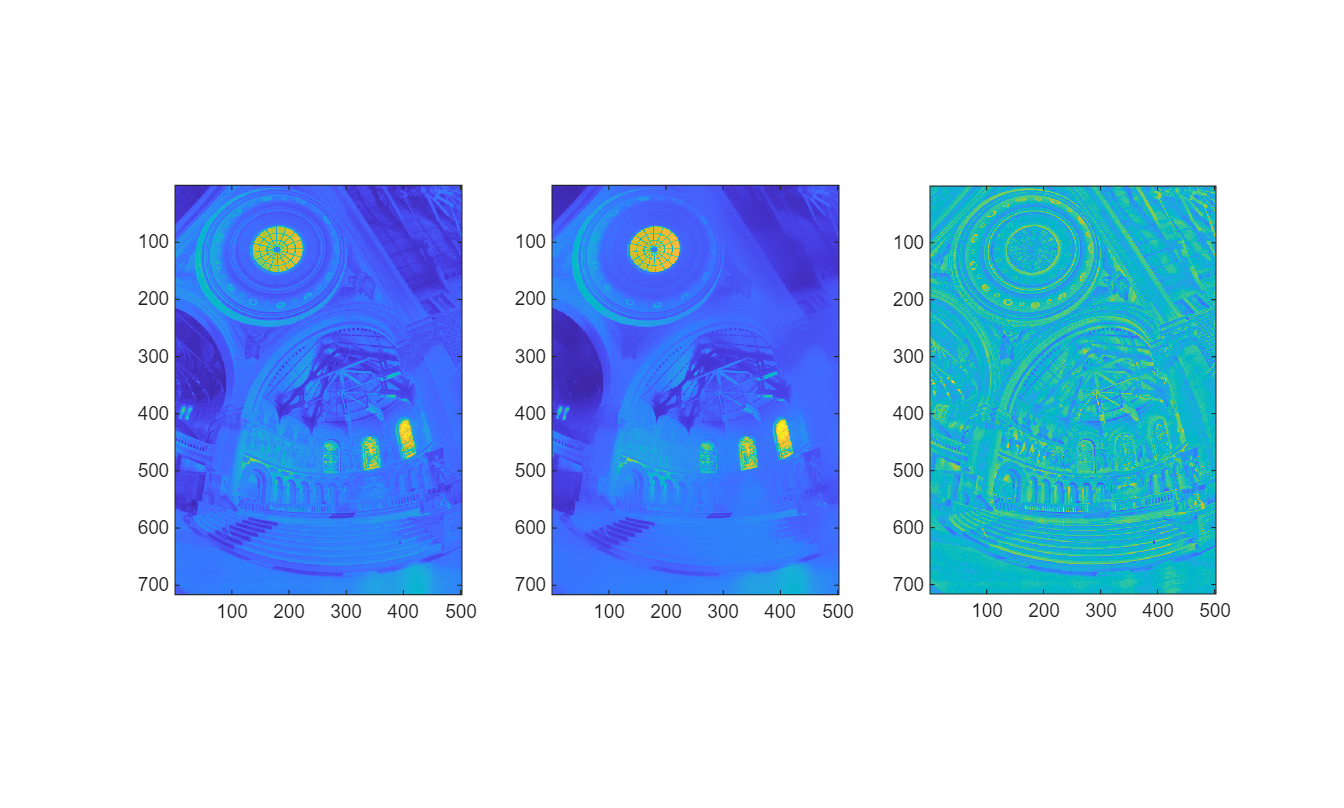
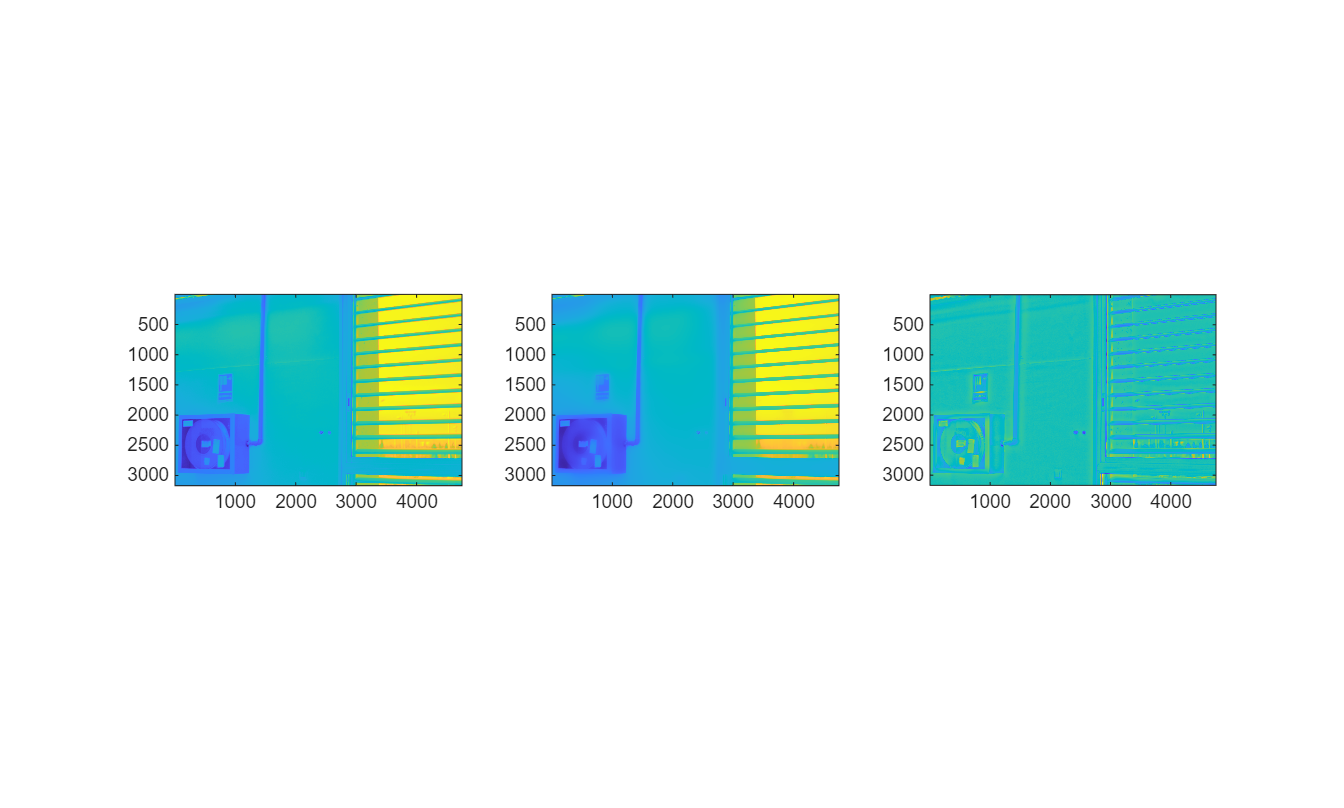
new images

diff --git a/03_assignment/Code/Part2/part2.m b/03_assignment/Code/Part2/part2.m
@@ -3,7 +3,8 @@
 hdr = hdrread('../Part1/Results/ours_hdr_image.hdr');
 
 % tone-map
-keys=[0.02, 0.07, 0.10];
+% keys=[0.02, 0.07, 0.10];
+keys=[0.25];
 burns=[0.1, 0.5, 1];
 
 fignum = 3;
@@ -22,19 +23,19 @@ for key=keys
 
 end
 
-for burn=burns
-
-    % imwrite( ...
-    %     reinhard_tonemapping(hdr, keys(2), burn, fignum+1), ...
-    %     "Results/tonemapped_reinhard_burn_" + burn + ".png" ...
-    %     )
-
-    imwrite( ...
-        reinhard_tonemapping(hdr, keys(2), burn, fignum+1), ...
-        "Results/ours_tonemapped_reinhard_burn_" + burn + ".png" ...
-        )
-
-end
+% for burn=burns
+% 
+%     % imwrite( ...
+%     %     reinhard_tonemapping(hdr, keys(2), burn, fignum+1), ...
+%     %     "Results/tonemapped_reinhard_burn_" + burn + ".png" ...
+%     %     )
+% 
+%     imwrite( ...
+%         reinhard_tonemapping(hdr, keys(2), burn, fignum+1), ...
+%         "Results/ours_tonemapped_reinhard_burn_" + burn + ".png" ...
+%         )
+% 
+% end
 
 simple_hdr = scale_and_gamma(hdr ./ (1 + hdr));
 

diff --git a/03_assignment/Code/Part3/part3.m b/03_assignment/Code/Part3/part3.m
@@ -1,22 +1,23 @@
 %load HDR
-hdr = hdrread('../Part1/Results/hdr_image.hdr');
-% hdr = hdrread('../Part1/Results/ours_hdr_image.hdr');
+% hdr = hdrread('../Part1/Results/hdr_image.hdr');
+hdr = hdrread('../Part1/Results/ours_hdr_image.hdr');
 
 fignum = 6;
 
-for dR = [2, 4, 6]
+% for dR = [3]
+dR = 3
 
-    imwrite( ...
-        durand_tonemapping(hdr, dR, fignum), ...
-        "Results/tonemapped_durand_dR_" + dR + ".png" ...
-        )
     % imwrite( ...
     %     durand_tonemapping(hdr, dR, fignum), ...
-    %     "Results/ours_tonemapped_durand_dR_" + dR + ".png" ...
+    %     "Results/tonemapped_durand_dR_" + dR + ".png" ...
     %     )
+    imwrite( ...
+        durand_tonemapping(hdr, dR, fignum), ...
+        "Results/ours_tonemapped_durand_dR_" + dR + ".png" ...
+        )
     
-    fignum = fignum + 1;
-
-end
+%     fignum = fignum + 1;
+% 
+% end
 
 clear fignum dR;
